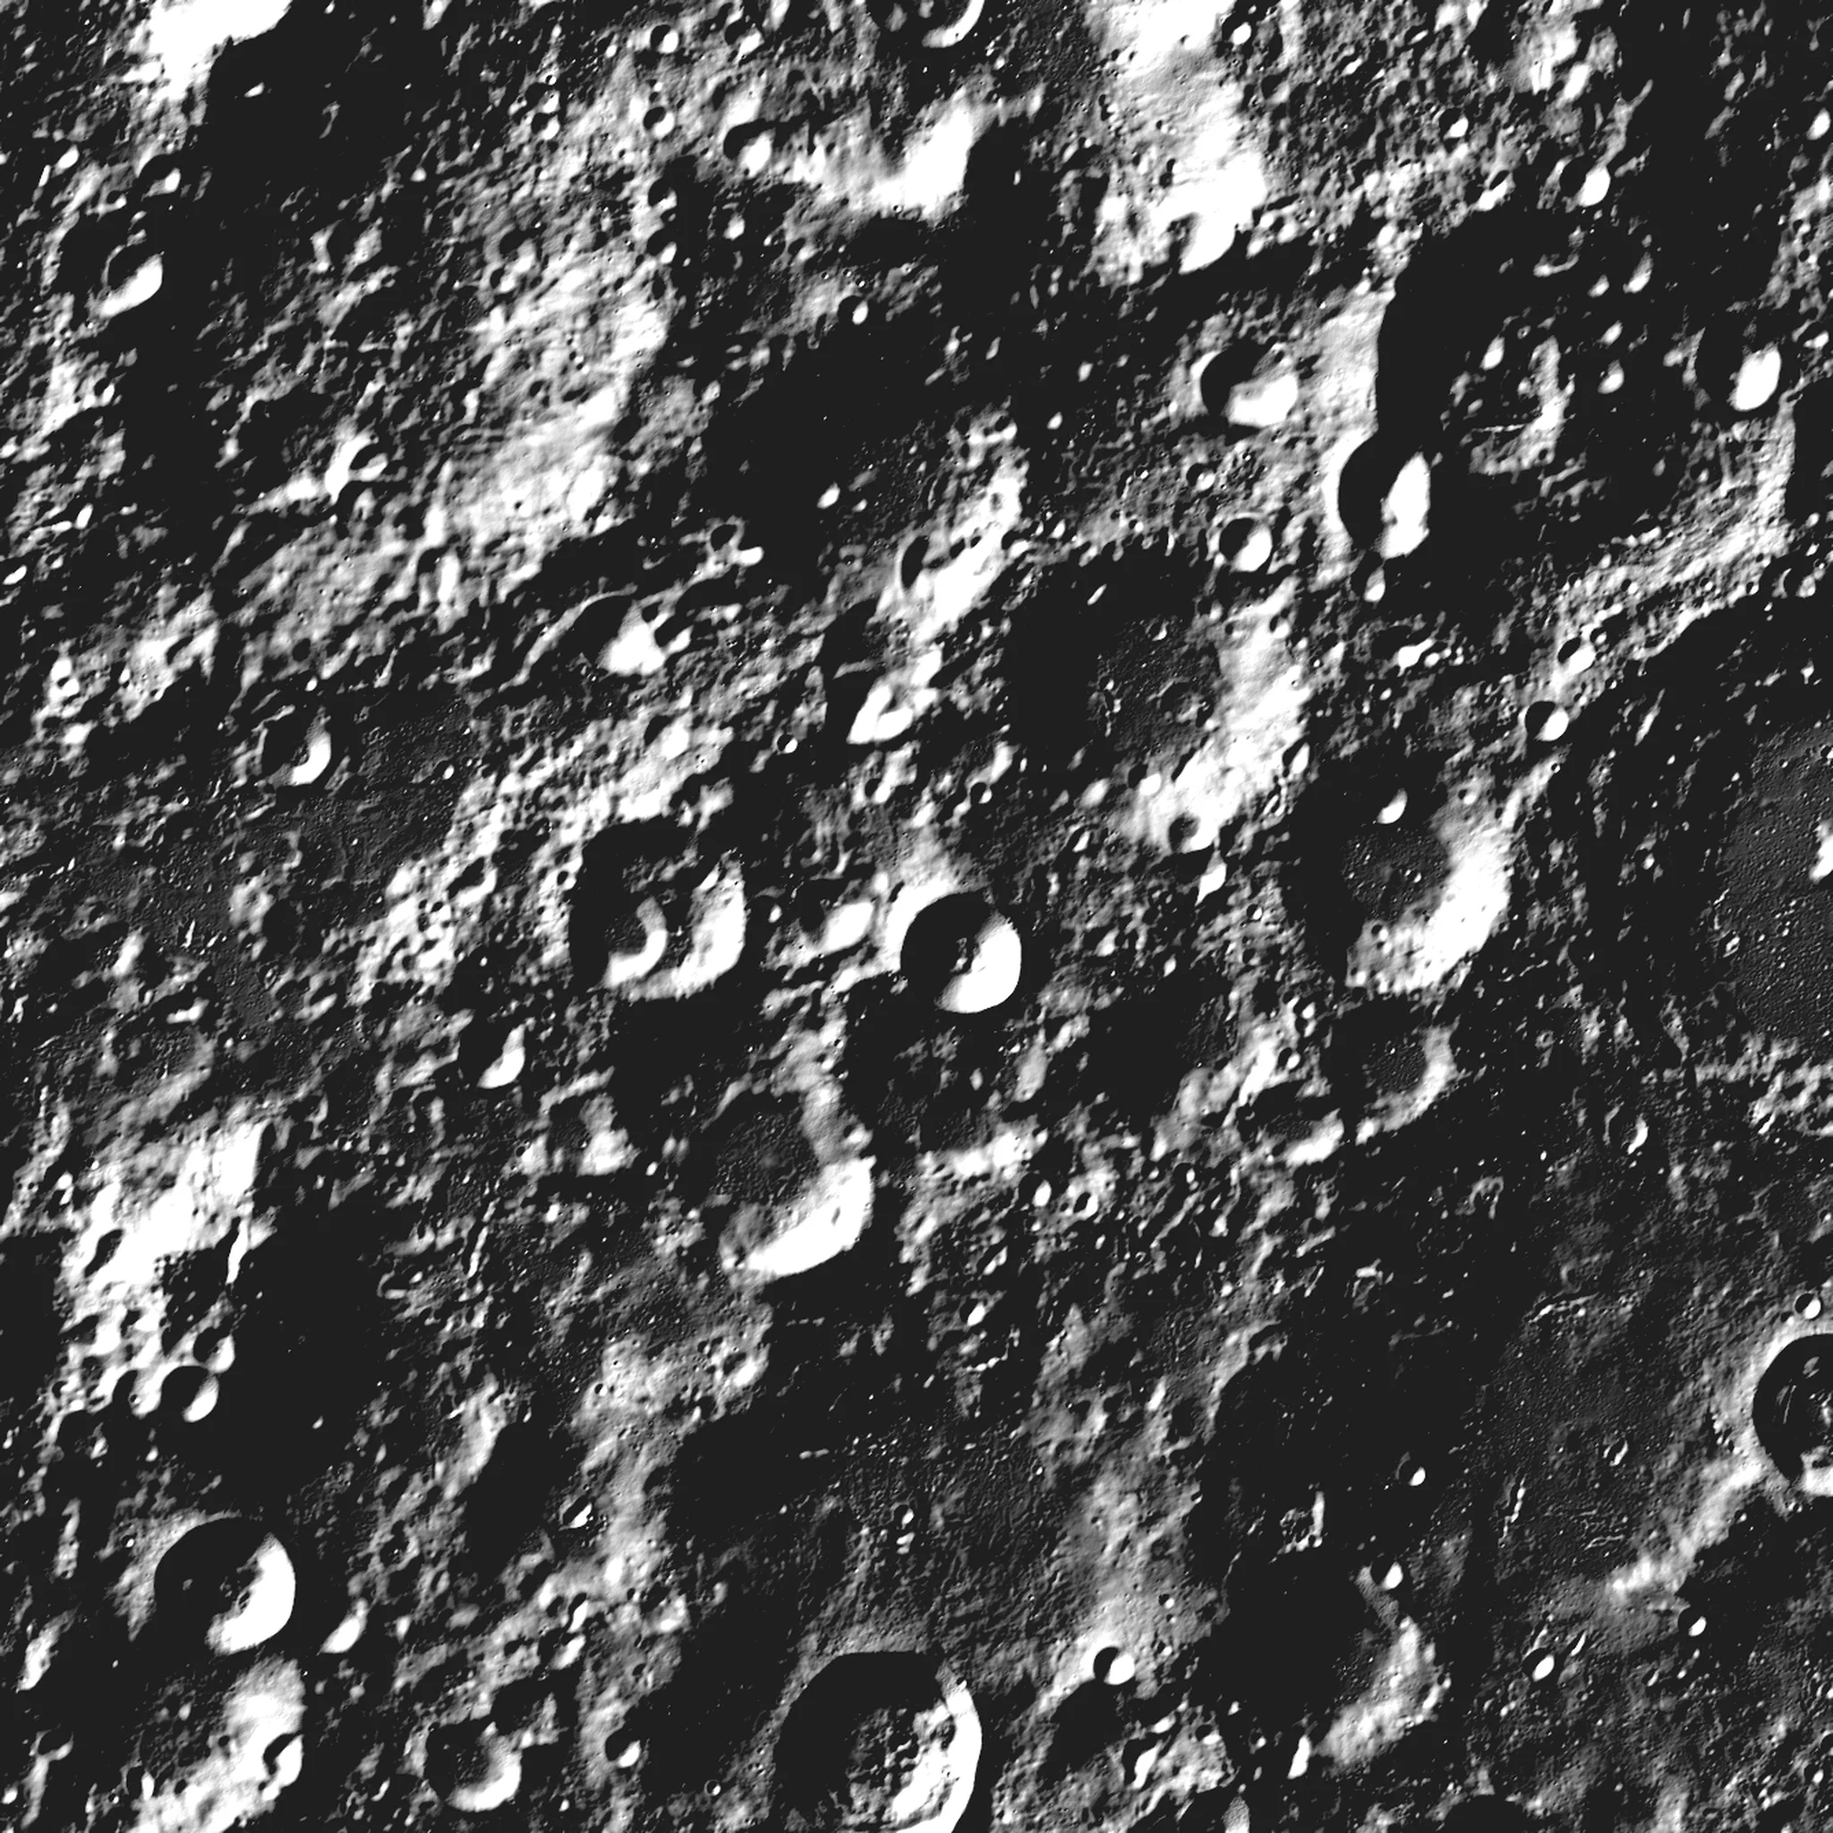
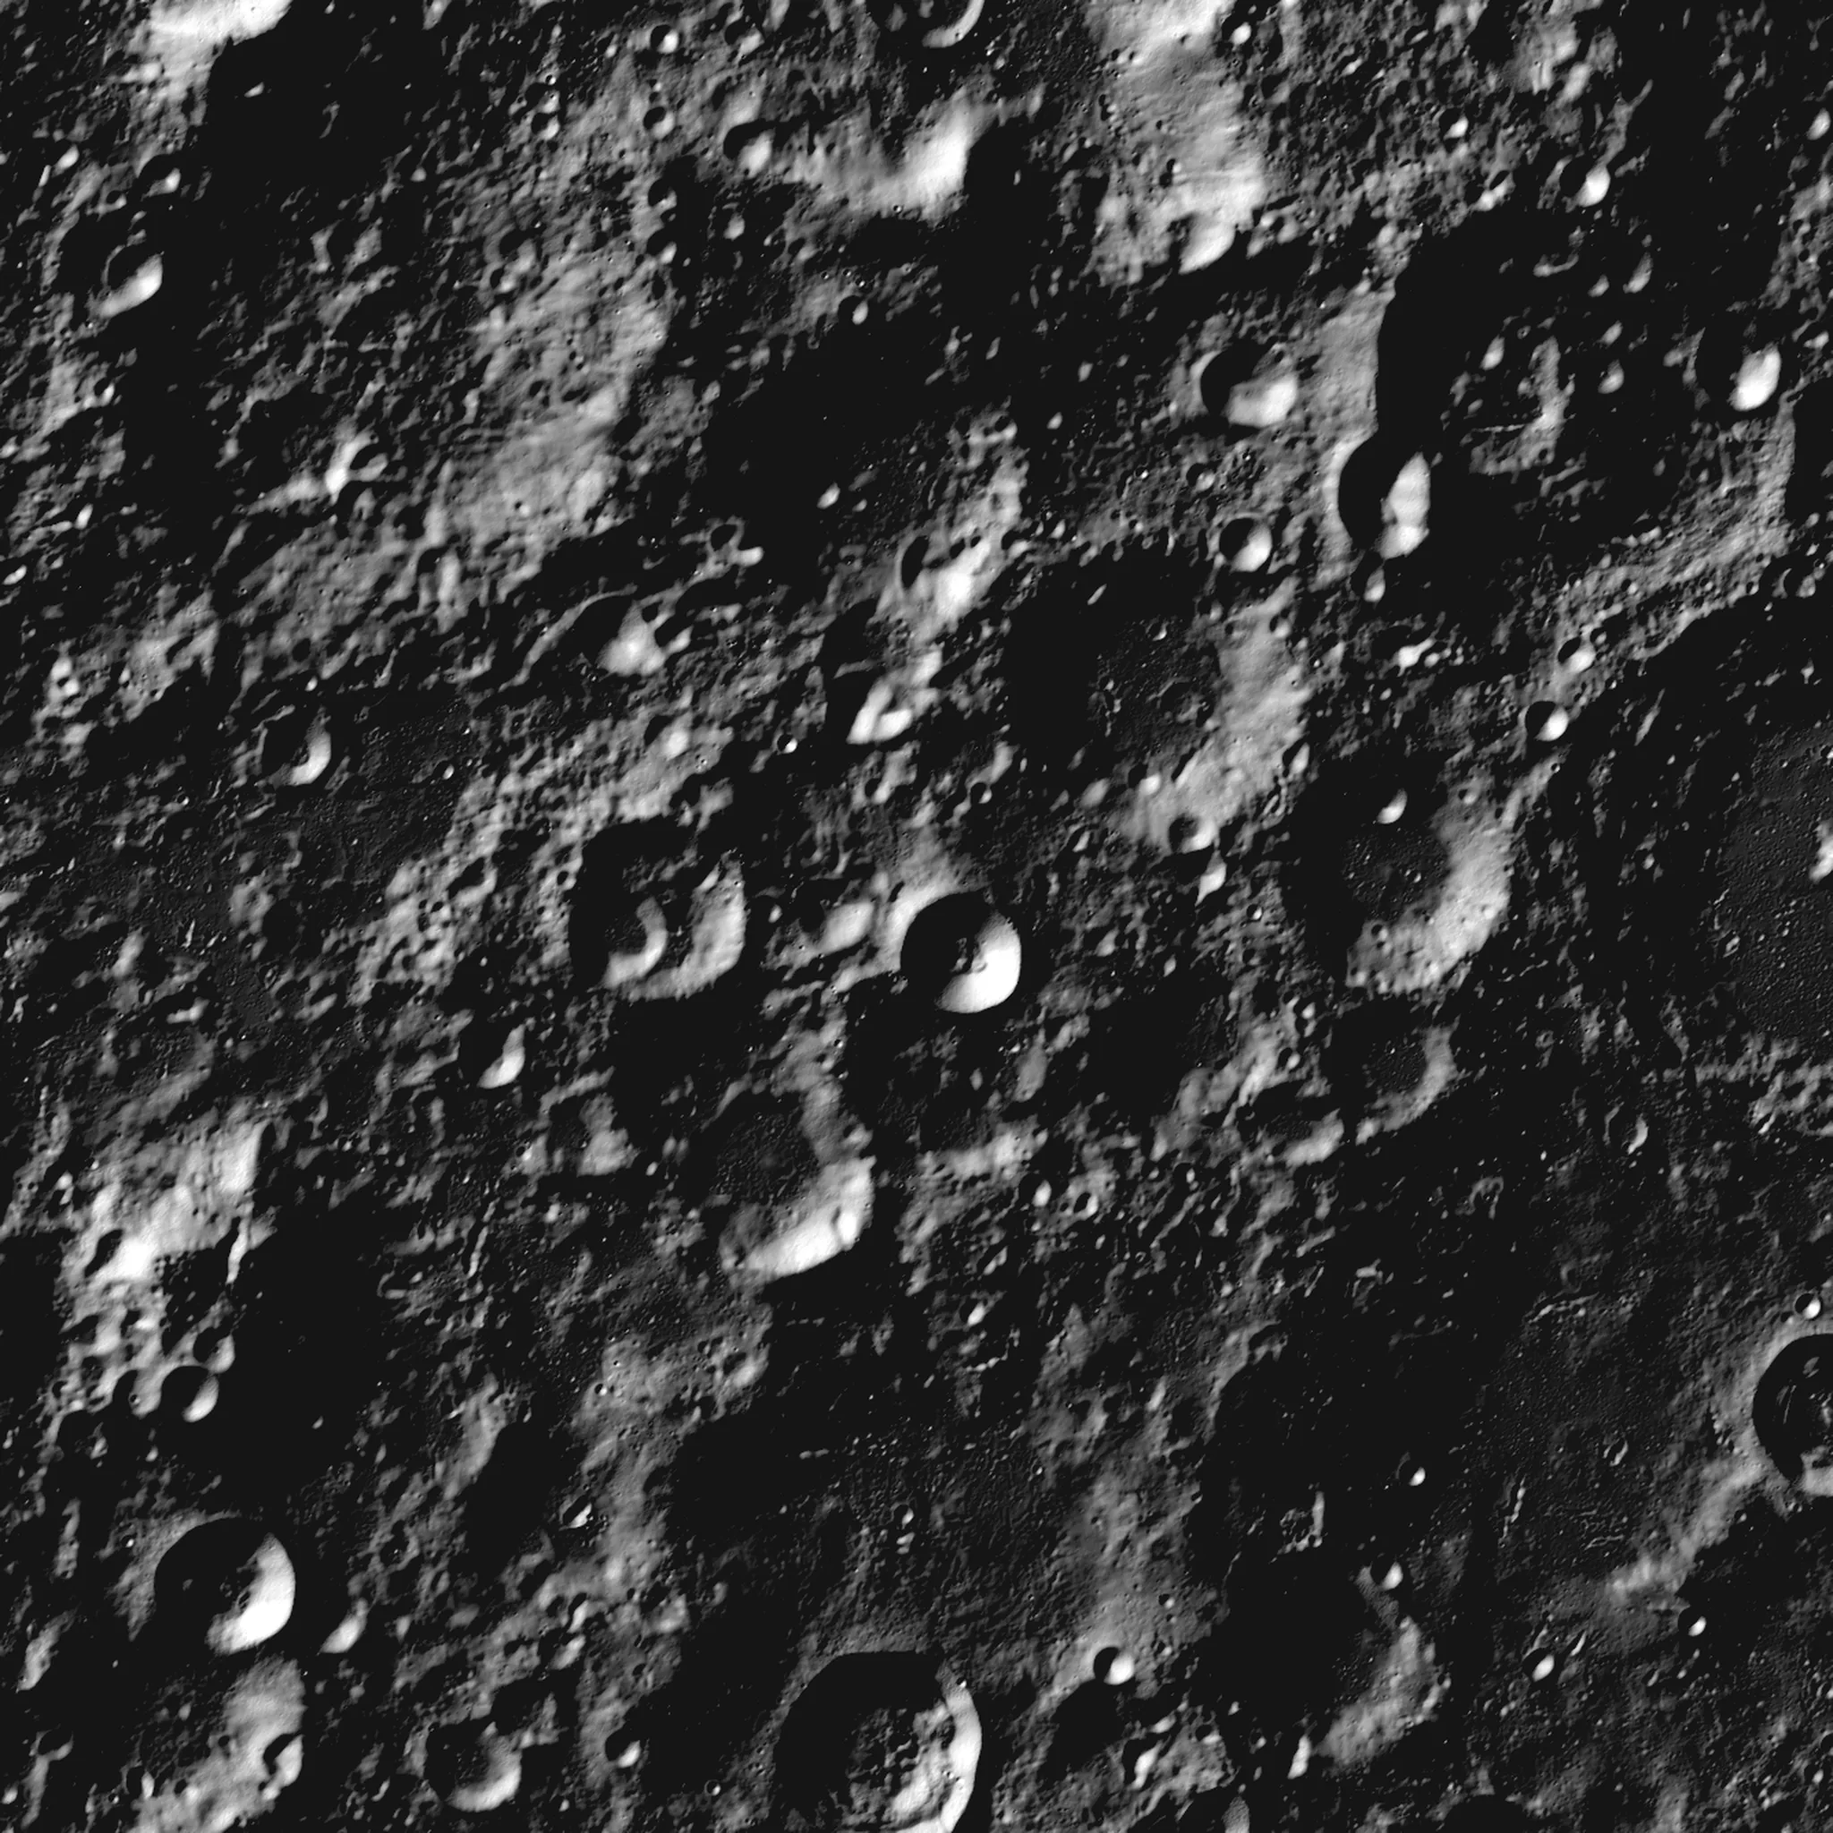
Journey fixes from visual review, mobile overflow, CHANGELOG

diff --git a/src/design/app.css b/src/design/app.css
@@ -56,7 +56,9 @@ bdi { unicode-bidi: isolate; }
 .top { position: fixed; inset: 0 0 auto 0; z-index: 40; display: flex; align-items: center; justify-content: space-between; gap: var(--s4); padding: calc(var(--s3) + env(safe-area-inset-top)) var(--gutter) var(--s3); transition: background var(--d-ui); }
 .planner .top { background: var(--bg-1); border-bottom: 1px solid var(--line); }
 .brand { display: inline-flex; align-items: center; gap: 10px; font-weight: 600; letter-spacing: .02em; min-height: 44px; }
-.top-ctl { display: flex; align-items: center; gap: var(--s3); }
+.top-ctl { display: flex; align-items: center; gap: var(--s3); min-width: 0; }
+.seg .short { display: none; }
+@media (max-width: 520px) { .seg .long { display: none; } .seg .short { display: inline; } .top { padding-inline: 12px; } }
 
 /* ---------- Journey */
 .journey { position: relative; }
@@ -84,13 +86,14 @@ bdi { unicode-bidi: isolate; }
 .scene { position: relative; z-index: 3; height: var(--h); }
 .scene-in { position: sticky; top: 0; height: 100vh; height: 100svh; display: flex; flex-direction: column; justify-content: center; padding: 96px var(--gutter) 96px; pointer-events: none; }
 .scene-in button, .scene-in a, .scene-in [data-panel] { pointer-events: auto; }
+.journey:not(.static) .scene-in { position: fixed; inset: 0; height: auto; opacity: 0; visibility: hidden; transition: opacity 500ms var(--ease-io), visibility 0s 500ms; }
+.journey:not(.static) .scene.in .scene-in { opacity: 1; visibility: visible; transition: opacity 500ms var(--ease-io), visibility 0s; }
 .copy { max-width: min(44ch, 46vw); }
 .display { font-size: clamp(56px, 9vw, 148px); font-weight: 200; line-height: .95; letter-spacing: -.02em; margin: 0; }
 .display.md { font-size: clamp(44px, 6.4vw, 104px); }
 :root[lang='ar'] .display { line-height: 1.15; letter-spacing: 0; font-weight: 300; }
 .journey:not(.static) .reveal { opacity: 0; transform: translateY(40px); transition: opacity var(--d-text) var(--ease-io), transform var(--d-text) var(--ease-io); transition-delay: calc(var(--i, 0) * 60ms); }
 .journey:not(.static) .scene.in .reveal { opacity: 1; transform: none; }
-.journey:not(.static) .scene.s1 .reveal { opacity: 1; transform: none; }
 .s1 .reveal:nth-child(2) { --i: 1; } .s1 .reveal:nth-child(3) { --i: 2; }
 .cta-row { display: flex; flex-wrap: wrap; align-items: center; gap: var(--s5); margin-top: var(--s6); }
 .counters { display: grid; grid-template-columns: repeat(2, minmax(0, 1fr)); gap: var(--s6) var(--s7); }
@@ -116,7 +119,7 @@ bdi { unicode-bidi: isolate; }
   .copy { max-width: none; }
   .scene-in { justify-content: flex-end; padding-bottom: 120px; }
   .s1 .scene-in { padding-bottom: 140px; }
-  .s1 .copy, .s3 .copy, .s5 .copy { background: linear-gradient(transparent, rgba(5, 7, 11, .75) 30%); padding-top: var(--s5); }
+  .s1 .copy, .s2 .copy, .s3 .copy, .s5 .copy { background: linear-gradient(transparent, rgba(5, 7, 11, .75) 30%); padding-top: var(--s5); }
   .counters { gap: var(--s4); }
   .panels { grid-template-columns: 1fr; gap: var(--s2); }
   .panel .chart { max-height: 92px; }
@@ -169,14 +172,14 @@ main { max-width: 1320px; margin: 0 auto; padding: var(--s6) var(--gutter) var(-
 .block { border-top: 1px solid var(--line); padding-top: var(--s5); margin-top: var(--s6); }
 .col-side .block:first-child { margin-top: var(--s4); }
 @media (max-width: 960px) {
-  .two-col, .two-col.wide-main { grid-template-columns: 1fr; }
+  .two-col, .two-col.wide-main { grid-template-columns: minmax(0, 1fr); }
   .grid4 { grid-template-columns: repeat(2, minmax(0, 1fr)); }
 }
 @media (max-width: 720px) {
   .stepper { grid-template-columns: repeat(6, 1fr); }
   .stp-l { display: none; }
   .stp-mobile { display: block; grid-column: 1 / -1; font-size: 11.5px; letter-spacing: .1em; color: var(--text); margin-top: 6px; }
-  .grid2 { grid-template-columns: 1fr; }
+  .grid2 { grid-template-columns: minmax(0, 1fr); }
   .top .seg button { padding: 6px 9px; }
   .top-ctl { gap: 6px; }
   .brand span { display: none; }
@@ -193,10 +196,10 @@ main { max-width: 1320px; margin: 0 auto; padding: var(--s6) var(--gutter) var(-
 .nf-max { font-size: 12.5px; color: var(--warn); }
 .field { display: grid; gap: 4px; }
 .field-in { display: flex; align-items: baseline; gap: 6px; border-bottom: 1px solid var(--line-strong); }
-.field-in input { flex: 1; min-width: 0; background: none; border: 0; font-size: 22px; font-weight: 300; padding: 4px 0; font-variant-numeric: tabular-nums; }
+.field-in input { flex: 1; min-width: 0; width: 100%; background: none; border: 0; font-size: 22px; font-weight: 300; padding: 4px 0; font-variant-numeric: tabular-nums; }
 .field-in input:focus { outline: none; } .field-in:focus-within { border-color: var(--ice); }
 .field-in em { font-style: normal; color: var(--muted); }
-.coords { display: grid; grid-template-columns: 1fr 1fr; gap: var(--s4); }
+.coords { display: grid; grid-template-columns: repeat(2, minmax(0, 1fr)); gap: var(--s4); }
 .tabs { display: flex; gap: var(--s5); border-bottom: 1px solid var(--line); margin-bottom: var(--s5); overflow-x: auto; }
 .tab { padding: 10px 0; border-bottom: 2px solid transparent; color: var(--muted); display: inline-flex; gap: 8px; white-space: nowrap; min-height: 44px; }
 .tab.on { color: var(--text); border-color: var(--ice); }

diff --git a/src/App.tsx b/src/App.tsx
@@ -14,6 +14,10 @@ import { LAST_STEP, usePlanner, type Step } from './state/store';
 
 const STEPS: readonly Key[] = ['step1', 'step2', 'step3', 'step4', 'step5', 'step6'];
 
+// The route wins over the saved language on first load (#/en, #/ar).
+const initial = /^#\/(en|ar)\b/.exec(typeof location === 'undefined' ? '' : location.hash);
+if (initial) usePlanner.setState({ lang: initial[1] as Lang });
+
 function useLangRoute(): void {
   const lang = usePlanner((s) => s.lang);
   const set = usePlanner((s) => s.set);
@@ -22,7 +26,6 @@ function useLangRoute(): void {
       const m = /^#\/(en|ar)\b/.exec(location.hash);
       if (m && m[1] !== usePlanner.getState().lang) set({ lang: m[1] as Lang });
     };
-    read();
     window.addEventListener('hashchange', read);
     return () => window.removeEventListener('hashchange', read);
   }, [set]);
@@ -71,7 +74,7 @@ export function App() {
         <div className="top-ctl">
           {!inPlanner ? <button type="button" className="btn-text hide-sm" onClick={() => go(1)}>{t('skip.toPlanner')}</button> : null}
           <div className="seg" role="group" aria-label="time zone">
-            {(['utc', 'ksa'] as const).map((z) => <button key={z} type="button" aria-pressed={tz === z} onClick={() => set({ tz: z })}>{t(z)}</button>)}
+            {(['utc', 'ksa'] as const).map((z) => <button key={z} type="button" aria-pressed={tz === z} onClick={() => set({ tz: z })}><span className="long">{t(z)}</span><span className="short" aria-hidden="true">{z === 'utc' ? 'UTC' : '+3'}</span></button>)}
           </div>
           <div className="seg" role="group" aria-label="language">
             {(['en', 'ar'] as const).map((l) => <button key={l} type="button" aria-pressed={lang === l} lang={l} onClick={() => { saveLang(l); set({ lang: l }); }}>{l === 'en' ? 'EN' : 'عربي'}</button>)}

diff --git a/src/journey/scene.ts b/src/journey/scene.ts
@@ -184,13 +184,12 @@ export function createMoonScene(o: SceneOptions): MoonScene {
   moon.add(hill);
   let hillLoaded = false;
 
-  const artMat = track(new THREE.LineDashedMaterial({ color: 0x9fd8e8, dashSize: 0.0012, gapSize: 0.0008, transparent: true, opacity: 0, depthTest: false }));
+  const artMat = track(new THREE.LineBasicMaterial({ color: 0x9fd8e8, transparent: true, opacity: 0, depthTest: false }));
   const labelAnchors: THREE.Vector3[] = [];
   for (const f of o.vectors?.artemis3.features ?? []) {
     const ring = f.rings[0] ?? [];
     const pts = ring.map(([x, y]) => mapToSphere(x!, y!, 1.0008));
     const line = new THREE.LineLoop(track(new THREE.BufferGeometry().setFromPoints(pts)), artMat);
-    line.computeLineDistances();
     line.renderOrder = 2;
     moon.add(line);
     const c = pts.reduce((s, p) => s.add(p), new THREE.Vector3()).divideScalar(Math.max(1, pts.length));
@@ -286,7 +285,7 @@ export function createMoonScene(o: SceneOptions): MoonScene {
     traceMat.opacity = 0.85 * s.trace;
     if (s.hill > 0.01 && !hillLoaded) {
       hillLoaded = true;
-      loader.load(`${BASE}pole_hillshade_2k.webp`, (t) => { t.colorSpace = THREE.SRGBColorSpace; t.anisotropy = maxAniso; hillU.uMap.value = t; track(t); });
+      loader.load(`${BASE}pole_hillshade_2k.webp?v=2`, (t) => { t.colorSpace = THREE.SRGBColorSpace; t.anisotropy = maxAniso; hillU.uMap.value = t; track(t); });
     }
     hillU.uOpacity.value = hillU.uMap.value === blank ? 0 : s.hill;
     artMat.opacity = 0.9 * s.artemis;

diff --git a/src/journey/keyframes.ts b/src/journey/keyframes.ts
@@ -55,11 +55,11 @@ export const KEYS: readonly Key[] = [
   K(0.12, 0.4, 0.0, 0.95, 4, -8, 0, 0, 0, 0, 0),
   K(0.2, 0.22, 0.02, 0.36, 18, -22, 1, 0, 0, 0, 0),
   K(0.33, 0.42, -0.04, 0.3, 30, -48, 1, 0, 0, 0, 0),
-  K(0.4, 0.05, -0.65, 1.3, 40, -70, 0.4, 0.6, 0, 0, 0, 'expo.inOut'),
-  K(0.48, 0, -5.9, 2.4, 45, -90, 0, 1, 0, 0, 0, 'expo.inOut'),
-  K(0.6, 0, -5.9, 2.4, 75, -90, 0, 1, 0, 0, 0),
-  K(0.68, 0, -1.6, 2.6, 60, -90, 0, 0, 0.4, 0, 0),
-  K(0.76, 0, 0, 2.9, 25, -90, 0, 0, 1, 1, 0),
+  K(0.4, 0.05, -0.65, 1.3, -20, -70, 0.4, 0.6, 0, 0, 0, 'expo.inOut'),
+  K(0.48, 0, -5.9, 2.4, -40, -90, 0, 1, 0, 0, 0, 'expo.inOut'),
+  K(0.6, 0, -5.9, 2.4, -70, -90, 0, 1, 0, 0, 0),
+  K(0.68, 0, -1.6, 2.6, -60, -90, 0, 0, 0.4, 0, 0),
+  K(0.76, 0, 0, 2.9, -25, -90, 0, 0, 1, 1, 0),
   K(0.86, 0, 0, 3.0, 0, -90, 0, 0, 1, 1, 0),
   K(1.0, 0, 0, 3.4, 0, -90, 0, 0, 1, 1, 0.88),
 ];
@@ -70,7 +70,7 @@ export function keysFor(portrait: boolean, rtl: boolean): Key[] {
     let { cx, cy, R } = k;
     if (portrait) {
       cx = 0;
-      if (k.p <= 0.12) { cy = 0.3; R = k.R * 0.7; } else if (k.p <= 0.33) { cy = 0.28; R = k.R * 0.9; }
+      if (k.p <= 0.12) { cy = 0.3; R = k.R * 0.7; } else if (k.p <= 0.33) { cy = 0.5; R = k.R * 0.72; }
     }
     return { ...k, cx: rtl ? -cx : cx, cy, R };
   });

diff --git a/src/journey/runtime.ts b/src/journey/runtime.ts
@@ -62,15 +62,15 @@ export function startJourney(o: RuntimeOptions): Runtime {
       moon.pause(self.progress > 0.995 && state.dim > 0.85);
     },
   }));
-  o.root.querySelectorAll<HTMLElement>('[data-scene]').forEach((el) => {
-    triggers.push(ScrollTrigger.create({ trigger: el, start: 'top 65%', end: 'bottom 35%', toggleClass: { targets: el, className: 'in' } }));
+  o.root.querySelectorAll<HTMLElement>('[data-scene]').forEach((el, i) => {
+    triggers.push(ScrollTrigger.create({ trigger: el, start: i === 0 ? -1 : 'top top', end: 'bottom top', toggleClass: { targets: el, className: 'in' } }));
   });
   const disc = o.root.querySelector<HTMLElement>('[data-scene="2"]');
   if (disc) triggers.push(ScrollTrigger.create({ trigger: disc, start: 'top+=35% top', once: true, onEnter: o.onCount }));
   const hand = o.root.querySelector<HTMLElement>('[data-reveal-circle]');
   if (hand) {
     triggers.push(ScrollTrigger.create({
-      trigger: hand.closest('[data-scene]')!, start: 'top 60%', end: 'bottom bottom', scrub: 0.8,
+      trigger: hand.closest('[data-scene]')!, start: 'top top', end: 'bottom bottom', scrub: 0.8,
       onUpdate: (self) => { hand.style.clipPath = `circle(${(self.progress * 150).toFixed(2)}% at 50% 50%)`; },
     }));
   }

diff --git a/scripts/prepare_pole_hillshade.py b/scripts/prepare_pole_hillshade.py
@@ -24,8 +24,8 @@ import numpy as np
 from PIL import Image
 
 HALF_PX = 667.5
-AMBIENT = 0.06  # artistic floor
-GAIN = 4.0      # visual contrast: shade 0.25 -> white
+AMBIENT = 0.035  # artistic floor
+GAIN = 2.2      # visual contrast: shade 0.45 -> white
 
 
 def sun_at(eph: dict, iso: str) -> tuple[float, float]:

diff --git a/CHANGELOG.md b/CHANGELOG.md
@@ -1,0 +1,26 @@
+# CHANGELOG
+
+## v3.0.0-build1 — 2026-11-14 (builder)
+Phases 1–7 built; phase 8 partly verified (see report). Nothing pushed or deployed.
+
+### Pinned new packages
+three 0.187.0, gsap 3.15.1, lenis 1.3.27, @fontsource-variable/manrope 5.3.0, @fontsource/ibm-plex-sans-arabic 5.3.0, @fontsource-variable/jetbrains-mono 5.3.0, @types/three 0.187.0. react-router removed (two hash routes handled in App.tsx).
+
+### Data
+- Horizons: `verify_horizons.py` → RESULT: PASS (1,248 comparisons; Sun 0.00019°, Earth 0.00597°).
+- ephemeris.json, lunar_names.json, moontrek_vectors.json: SHA-256 identical to carry-over/E.
+- lola_south_240m.bin.gz (25,592,420 B) and dem40 tiles (75.3 MB) differ in bytes from carry-over/E. Likely cause: the local zlib (1.4 / zlib-ng) compresses differently from the original's. Not yet proven identical content. Size 3812, origin 1905.5, depth score 6676 m, 40 m vs 240 m median 14 m, and every reference-result test match. lola_south_240m.json also differs (645 vs 665 B); cause not found.
+- New: scripts/prepare_moon_textures.py (orientation check passes: Tycho bright 204.7 vs mean 149.4, Tranquillitatis dark 68.4), scripts/prepare_pole_hillshade.py, scripts/write_sources.py.
+
+### Journey date
+JOURNEY_DATE = 2027-01-27T04:00Z. 2027-01-08 has sub-solar lon 172° (near side dark). A ±20-day scan picks the date closest to screen sun dir (−0.7, 0.35, 0.62): dot 0.957.
+
+### Deviations (rulings)
+- Horizon keys cy = −5.9 (not −1.55, which fills the whole screen), so the arc sits in the lower third.
+- Horizon/Descent lon keys follow the Horizons sub-solar lon (−55°) so the arc is lit; lon 0 at the Handoff matches the planner map orientation.
+- Descent R 2.6–3.0 (not 4.5/9): at R = 9 the camera is 26 km above the pole and the Artemis regions (±140 km) leave the frame.
+- Scene counter shows 006 (six scenes are specified).
+- Handoff is a circular reveal into a planner intro, not a pixel-matched Moon Trek crossfade.
+- No rocks layer, no Web Worker for alternatives (the engine already yields, as in v2).
+- Engine status "rejected" is shown as "Not suitable"; "Needs attention" is the step-3 site rating, as in v2.
+- Owner questions (01 §8): no team name on the title card; Arabic headlines use the chapter 04 drafts.
